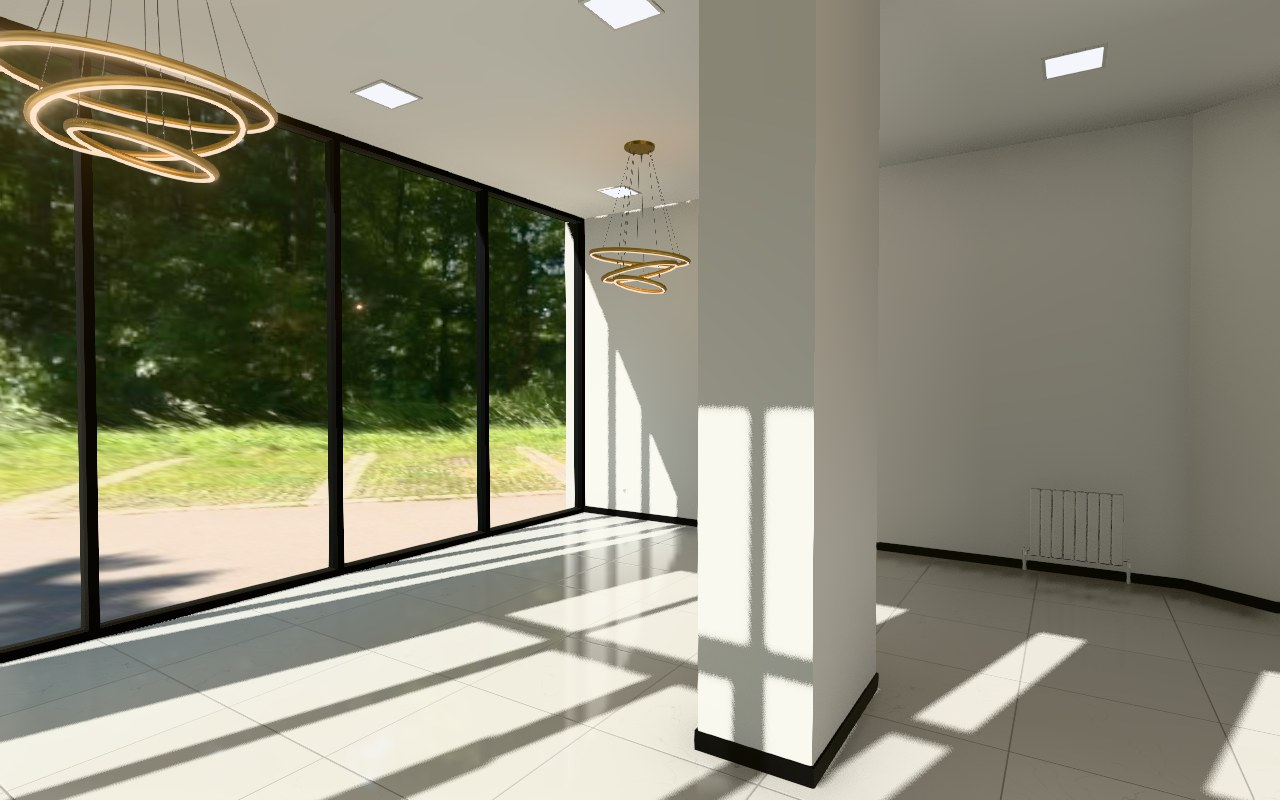
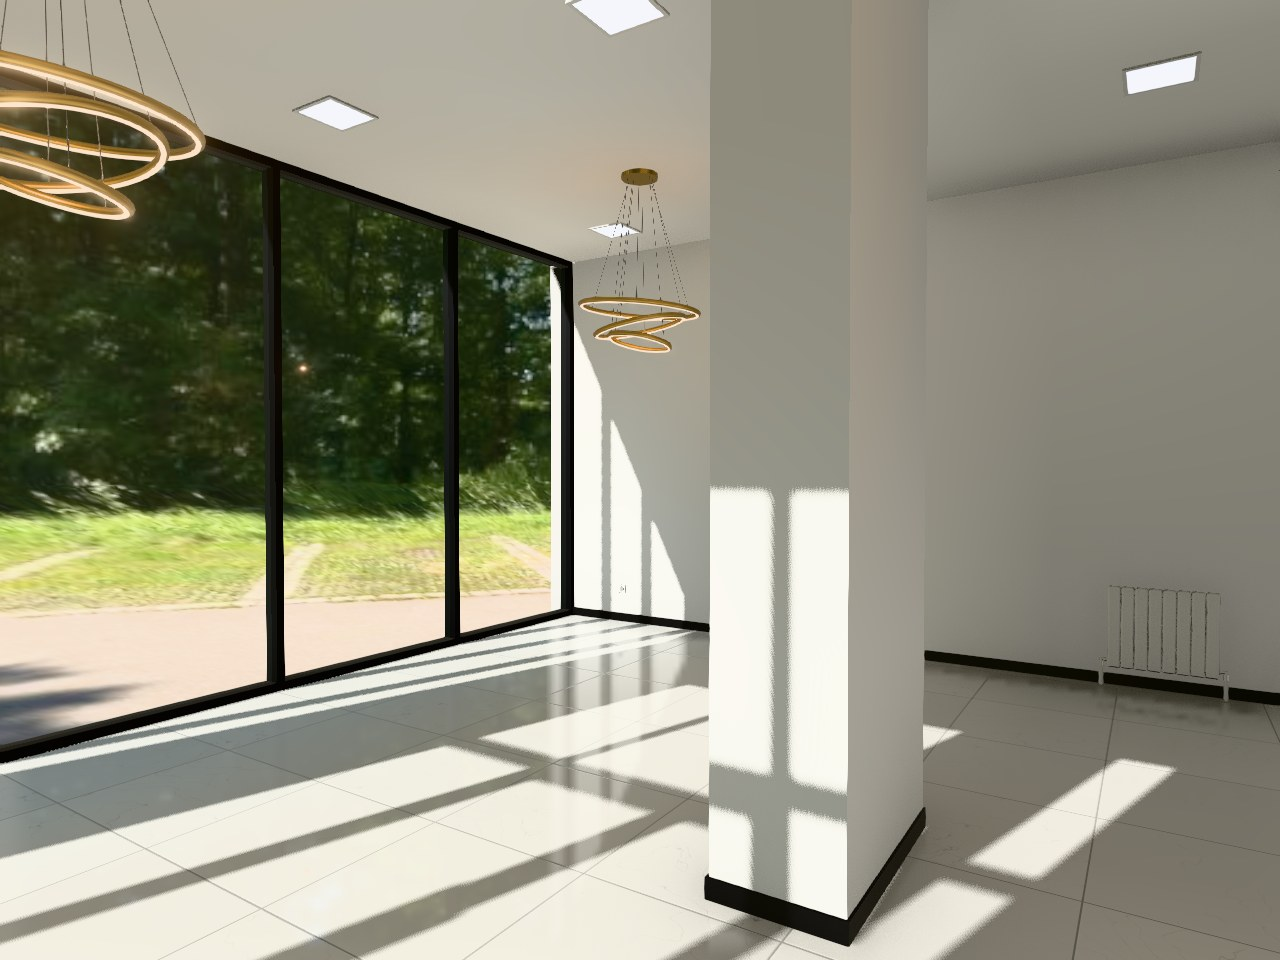
2-qavat: ofis xona 1-eshik orqasida, uzun koridor, yorqinroq va neytral ranglar
- Uzun devor oynagacha; g'arbiy zonada ustunlar qatori bo'ylab ofis devori
- O'ng qanot: o'rtadagi eshik olib tashlandi, g'arbiy devor bo'ylab uzun koridor
- GI uchun neytral osmon, oqroq devorlar, 2-qavat ekspozitsiyasi va panel yorug'ligi oshirildi

Claude-Session: https://claude.ai/code/session_01P9pQftsdzTnGheRvDppN9w

diff --git a/web/src/main.js b/web/src/main.js
@@ -34,7 +34,7 @@ const params = {
 	sunScale: 0.5,
 	skyIntensity: 1,
 	exposure: 0.68,
-	exposure2: 1.6, // 2-qavat: qora shift, kamroq qaytgan yorug'lik — fotograflar kabi ekspozitsiya oshiriladi
+	exposure2: 1.9, // 2-qavat: qora shift, kamroq qaytgan yorug'lik — fotograflar kabi ekspozitsiya oshiriladi
 	panel: 0.9,
 	chandelier: 0.25,
 	chandelierEmissive: 7,
@@ -115,6 +115,28 @@ async function main() {
 	console.log( 'model built' );
 	const [ sky, bgTex ] = await Promise.all( [ loadSky( BASE + 'hdri/park_parking_1k.hdr' ), loadBackground( BASE + 'hdri/park_parking_bg.jpg' ) ] );
 	sky.bg = bgTex;
+	{
+
+		// GI/akslar uchun osmonning rangi biroz neytrallashtiriladi: rasmlardagi kabi oq devorlar
+		const src = sky.texture.image.data;
+		const gd = new Float32Array( src.length );
+		for ( let i = 0; i < src.length; i += 4 ) {
+
+			const l = 0.2126 * src[ i ] + 0.7152 * src[ i + 1 ] + 0.0722 * src[ i + 2 ];
+			gd[ i ] = l + ( src[ i ] - l ) * 0.3; gd[ i + 1 ] = l + ( src[ i + 1 ] - l ) * 0.3; gd[ i + 2 ] = l + ( src[ i + 2 ] - l ) * 0.3; gd[ i + 3 ] = 1;
+
+		}
+
+		const t = new THREE.DataTexture( gd, sky.texture.image.width, sky.texture.image.height, THREE.RGBAFormat, THREE.FloatType );
+		t.mapping = THREE.EquirectangularReflectionMapping;
+		t.flipY = sky.texture.flipY;
+		t.colorSpace = THREE.LinearSRGBColorSpace;
+		t.minFilter = t.magFilter = THREE.LinearFilter;
+		t.generateMipmaps = false;
+		t.needsUpdate = true;
+		sky.giTex = t;
+
+	}
 	// Barcha birliklarni osmon = 1 ga normallashtiramiz
 	{
 
@@ -144,7 +166,7 @@ async function main() {
 	function hdrBackground( on ) {
 
 		if ( scene.background && scene.background.isColor ) return;
-		scene.background = on ? sky.texture : sky.bg;
+		scene.background = on ? ( sky.giTex || sky.texture ) : sky.bg;
 		scene.backgroundIntensity = on ? params.skyIntensity : bgIntensity;
 
 	}
@@ -352,10 +374,12 @@ async function main() {
 			poly: OUTLINE2, eye: Y2 + 1.62, start: [ 12, 5.5 ],
 			blockers: [
 				...COLS2.map( ( c ) => [ c.x0, c.x1, c.z0, c.z1 ] ),
-				[ 16.0, 23.35, 11.6, 17.01 ],
+				[ 17.72, 23.35, 11.6, 17.01 ],
 				[ 3.8, 6.6, 6.3, 8.75 ],
 				[ 1.9, 3.9, 6.28, 8.75 ],
-				[ 6.5, 6.8, 1.0, 2.0 ], [ 6.5, 6.8, 2.9, 5.3 ],
+				[ 6.5, 6.8, 0, 2.0 ], [ 6.5, 6.8, 2.9, 5.3 ],
+				[ 0.75, 3.3, 3.86, 3.98 ], [ 4.3, 4.75, 3.86, 3.98 ], [ 5.65, 6.5, 3.86, 3.98 ],
+				[ 17.6, 17.72, 11.72, 12.4 ], [ 17.6, 17.72, 13.3, 17.01 ],
 				[ 3.78, 6.8, 5.18, 5.3 ], [ 3.78, 3.9, 5.3, 8.75 ],
 				[ 0, 1.4, 1.78, 3.8 ],
 			],

diff --git a/web/src/floor2.js b/web/src/floor2.js
@@ -80,6 +80,23 @@ export function buildFloor2( mats, m2 ) {
 	const doors = [];
 	for ( const p of PARTITIONS2 ) {
 
+		if ( p.doorsZ ) {
+
+			let z = p.z0;
+			for ( const [ d0, d1 ] of p.doorsZ ) {
+
+				w.add( W, box( p.x0, p.x1, Y2, TOP, z, d0 ) );
+				w.add( W, box( p.x0, p.x1, Y2 + DOOR_H, TOP, d0, d1 ) );
+				addDoorZ( w, m2, { x0: p.x0, x1: p.x1, z0: d0, z1: d1 } );
+				z = d1;
+
+			}
+
+			w.add( W, box( p.x0, p.x1, Y2, TOP, z, p.z1 ) );
+			continue;
+
+		}
+
 		if ( p.doorZ ) {
 
 			w.add( W, box( p.x0, p.x1, Y2 + DOOR_H, TOP, p.z0, p.z1 ) );
@@ -115,14 +132,16 @@ export function buildFloor2( mats, m2 ) {
 	const skz = ( z, x0, x1, side ) => w.add( S, box( x0, x1, Y2, Y2 + SK_H, z, z + side * SK_T ) );
 	skx( 23.35, 1.0, 3.57, - 1 ); skx( 23.35, 4.56, 9.0, - 1 ); skx( 23.35, 9.95, 11.6, - 1 );
 	skx( 23.35, 11.72, 14.95, - 1 ); skx( 23.35, 15.94, 16.45, - 1 );
-	skz( 8.75, 0, 1.9, - 1 ); skz( 8.75, 6.5, 16.0, - 1 ); skz( 6.28, 1.9, 3.78, - 1 ); skx( 6.5, 1.0, 1.93, - 1 ); skx( 6.5, 2.97, 5.18, - 1 ); skx( 6.8, 1.0, 1.93, 1 ); skx( 6.8, 2.97, 5.18, 1 ); skz( 1.0, 6.5, 6.8, - 1 );
+	skz( 8.75, 0, 1.9, - 1 ); skz( 8.75, 6.5, 16.0, - 1 ); skz( 6.28, 1.9, 3.78, - 1 ); skx( 6.5, 0, 1.93, - 1 ); skx( 6.5, 2.97, 5.18, - 1 ); skx( 6.8, 0, 1.93, 1 ); skx( 6.8, 2.97, 5.18, 1 );
+	skz( 3.86, 0.75, 3.3, - 1 ); skz( 3.98, 0.75, 3.3, 1 ); skz( 3.86, 4.3, 4.68, - 1 ); skz( 3.86, 5.72, 6.5, - 1 ); skz( 3.98, 4.3, 4.68, 1 ); skz( 3.98, 5.72, 6.5, 1 );
+	skx( 17.6, 11.72, 12.33, - 1 ); skx( 17.6, 13.37, 17.01, - 1 ); skx( 17.72, 11.72, 12.33, 1 ); skx( 17.72, 13.37, 17.01, 1 );
 	skz( 5.18, 3.78, 6.5, - 1 ); skz( 5.3, 3.9, 6.8, 1 ); skx( 3.78, 5.18, 6.28, - 1 ); skx( 3.9, 5.3, 6.4, 1 ); skx( 16.0, 8.75, 10.0, 1 ); skx( 16.0, 10.95, 11.2, 1 );
 	skz( 8.75, 2.02, 3.78, - 1 ); skx( 2.02, 6.4, 8.75, 1 ); skx( 3.78, 6.4, 8.75, - 1 );
 	skx( 0, 4.18, 5.6, 1 ); skx( 0.75, 3.8, 3.68, 1 );
 	skx( 0, 4.18, 8.75, 1 ); skx( 0, 2.55, 2.62, 1 ); skx( 0, 3.63, 3.68, 1 ); 
 	skx( 16.0, 8.75, 8.94, 1 );
-	let sx = 16.0;
-	for ( const d of doors.filter( ( q ) => q.x0 > 15 ) ) {
+	let sx = 17.6;
+	for ( const d of doors.filter( ( q ) => q.x0 > 17 ) ) {
 
 		skz( 11.6, sx, d.x0 - 0.07, - 1 ); skz( 11.72, sx, d.x0 - 0.07, 1 ); sx = d.x1 + 0.07;
 

diff --git a/web/src/plan2.js b/web/src/plan2.js
@@ -61,15 +61,19 @@ export const PARTITIONS2 = [
 	// Zina yonidagi kichik xona (eshiksiz) — rasm 15
 	{ x0: 1.9, x1: 3.9, z0: 6.28, z1: 6.4 },
 	{ x0: 1.9, x1: 2.02, z0: 6.4, z1: 8.75 },
-	// Zina atrofidagi devor (belgilangan reja, rasm 16): uzun devor → zina shimolidan g'arbga → janubga.
-	// Zina sharq tomondagi zalga ochiq.
-	{ x0: 6.5, x1: 6.8, z0: 1.0, z1: 2.0 },
-	{ x0: 6.5, x1: 6.8, z0: 2.0, z1: 2.9, doorZ: 'pvc' }, // 1-eshik (uzun devorda)
+	// Uzun devor: oynagacha (oyna bilan devor orasidagi ochiq joy yopildi — belgilangan reja 2, yulduzcha)
+	{ x0: 6.5, x1: 6.8, z0: 0.0, z1: 2.0 },
+	{ x0: 6.5, x1: 6.8, z0: 2.0, z1: 2.9, doorZ: 'pvc' }, // 1-eshik → ofis xonaga kiriladi
 	{ x0: 6.5, x1: 6.8, z0: 2.9, z1: 5.3 },
 	{ x0: 3.78, x1: 6.8, z0: 5.18, z1: 5.3 }, // zina maydonchasining shimoliy devori
 	{ x0: 3.78, x1: 3.9, z0: 5.3, z1: 8.75 }, // zina g'arbidagi devor (= kichik xona sharqiy devori)
-	// O'ng qanot: ko'ndalang devor — 2 ta eshik (o'ng ofis va o'rtadagi xona); ofislar orasidagi devor olib tashlandi
-	{ x0: 16.0, x1: 23.35, z0: 11.6, z1: 11.72, doors: [ [ 19.25, 20.05, 'white' ], [ 21.2, 22.1, 'pvc' ] ] },
+	// Ofis xona: ustunlar qatori bo'ylab devor (z ≈ 3.9), ichki o'tish joyi bilan (belgilangan reja 2)
+	{ x0: 0.75, x1: 3.3, z0: 3.86, z1: 3.98 },
+	{ x0: 4.3, x1: 6.5, z0: 3.86, z1: 3.98, doors: [ [ 4.75, 5.65, 'open' ] ] },
+	// O'ng qanot: ko'ndalang devor — g'arbiy devor bo'ylab uzun koridor uchun ochiq (x 16…17.6); bitta eshik (o'ng ofis)
+	{ x0: 17.6, x1: 23.35, z0: 11.6, z1: 11.72, doors: [ [ 21.2, 22.1, 'pvc' ] ] },
+	// Koridor devori (x 17.6), o'rtadagi xonaga eshik koridordan
+	{ x0: 17.6, x1: 17.72, z0: 11.72, z1: 17.01, doorsZ: [ [ 12.4, 13.3 ] ] },
 	{ x0: 20.53, x1: 20.65, z0: 11.72, z1: 17.01 },
 ];
 
@@ -102,6 +106,7 @@ export const PANELS2 = ( () => {
 			const x = xa + ( i + 0.5 ) * ( xb - xa ) / nx;
 			const z = za + ( k + 0.5 ) * ( zb - za ) / nz;
 			if ( x > 1.7 && x < 7.0 && z > 6.1 ) continue; // zina teshigi va kichik xona ustida emas
+			if ( Math.abs( z - 3.92 ) < 0.35 && x < 6.6 ) continue; // ofis devori ostida emas
 			out.push( [ x, z ] );
 
 		}

diff --git a/web/src/materials.js b/web/src/materials.js
@@ -33,7 +33,7 @@ export function createMaterials() {
 
 	m.floorPlain = m.floor.clone();
 
-	m.wall = new THREE.MeshStandardMaterial( { color: 0xf3f3f1, roughness: 0.92, metalness: 0 } );
+	m.wall = new THREE.MeshStandardMaterial( { color: 0xf7f7f6, roughness: 0.9, metalness: 0 } );
 	m.ceiling = new THREE.MeshStandardMaterial( { color: 0xf7f7f5, roughness: 0.95, metalness: 0 } );
 	m.plaster = m.wall;
 

diff --git a/web/src/fixtures.js b/web/src/fixtures.js
@@ -171,7 +171,7 @@ export function applyLightLevels( lights, mats, p ) {
 	// 2-qavat panel guruhlari (6 ta katta yorug'lik) — kamera 2-qavatda bo'lganda real vaqtda ham yoqiladi
 	for ( const l of lights.floor2 || [] ) {
 
-		l.intensity = p.panel * l.userData.areaFactor * 4 * on;
+		l.intensity = p.panel * l.userData.areaFactor * 6 * on;
 		l.visible = area || !! p.floor2Live;
 
 	}

diff --git a/docs/TZ-2-qavat.md b/docs/TZ-2-qavat.md
@@ -101,3 +101,8 @@
 - Yangi devor: uzun devor (x 6.5…6.8, z 1.0…5.3) → zina maydonchasi shimolida g'arbga (z 5.18…5.3, x 3.78…6.8) → zina g'arbida janubga (x 3.78…3.9, z 5.3…8.75). Zina sharqdagi zalga ochiq, teshik sharq qirrasida panjara.
 - 1-eshik: uzun devorda (z 2.0…2.9), PVC, to'q oynali.
 - 2-eshik: o'ng qanot g'arbiy devorida, burchak yonida (x 16.0, z 10.05…10.9), to'q metall.
+
+## 11. Belgilangan reja 2 bo'yicha (v6, rasm 20)
+- Uzun devor oynagacha cho'zildi (oyna bilan devor orasidagi ochiq joy yopildi). 1-eshikdan kirilganda ofis xona: g'arbiy zonaning shimoliy qismi (x 0…6.5, z 0…3.9), janubiy qismdan ustunlar qatori bo'ylab devor bilan ajratilgan (ichida eshiksiz o'tish joyi x 4.75…5.65).
+- O'ng qanot: ko'ndalang devordagi o'rtadagi eshik olib tashlandi. G'arbiy devor bo'ylab uzun koridor (x 16.0…17.6, z 11.6…17.0), zaldan ochiq; o'rtadagi xonaga eshik koridordan.
+- Ranglar: GI va akslarda osmon rangi neytrallashtirildi (devorlar yashil tus olmaydi), devorlar oqroq, 2-qavat yorug'roq.
